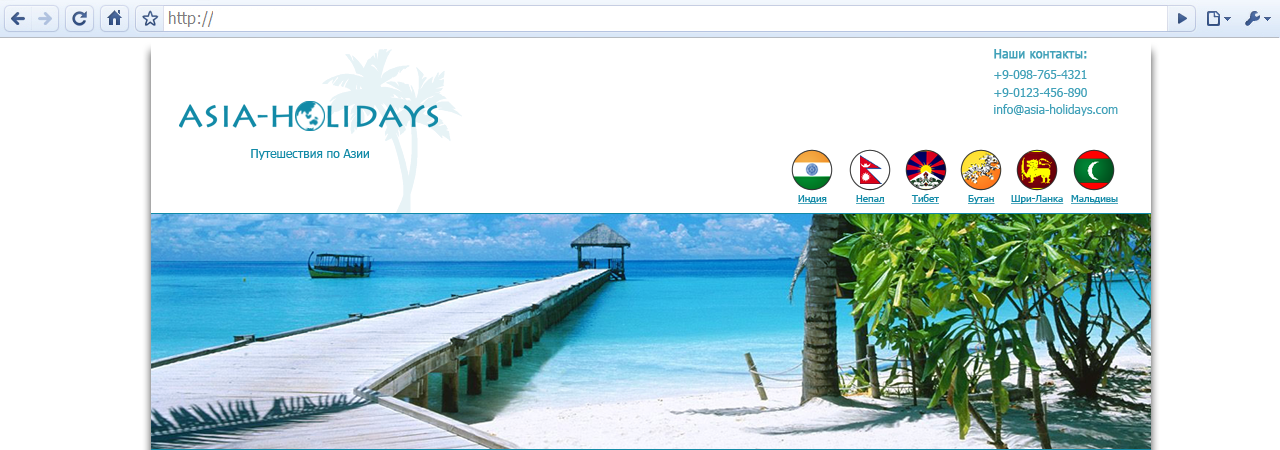
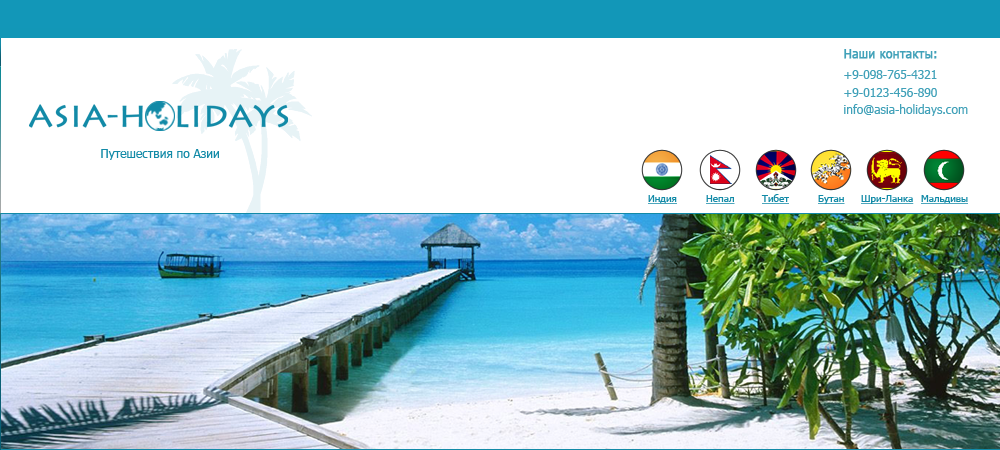
adit#2 hw#4

diff --git a/HW#4/index.html b/HW#4/index.html
@@ -18,7 +18,7 @@
 			<ul class="menu">
 				<li><a href=#>Главная</a>
 				</li>
-				<li><a href=#>Путешествия</a>
+				<li><a href=#>Путешествия&nbsp&#9662</a>
 					<ul class="submenu">
 						<li><a href=#>Путешествие 1</a></li>
 						<li><a href=#>Путешествие 2</a></li>
@@ -27,14 +27,14 @@
 						<li><a href=#>Путешествие 5</a></li>
 					</ul>
 				</li>
-				<li><a href=#>Услуги</a>
+				<li><a href=#>Услуги&nbsp&#9662</a>
 					<ul class="submenu">
 						<li><a href=#>Услуги 1</a></li>
 						<li><a href=#>Услуги 2</a></li>
 						<li><a href=#>Услуги 3</a></li>
 					</ul>
 				</li>
-				<li><a href=#>Партнерам</a>
+				<li><a href=#>Партнерам&nbsp&#9662</a>
 					<ul class="submenu">
 						<li><a href=#>Партнерам 1</a></li>
 						<li><a href=#>Партнерам 2</a></li>
@@ -52,28 +52,25 @@
 		<div class="main-block" >
 			<div class="fon"> <!-- блок-родитель с фоновой картинкой -->
 				<div class="leftColumn">
+				<div class="heading">Информация</div>
+				<p>"Lorem ipsum dolor sit amet, consectetur adipiscing elit, sed do
+				eiusmod tempor incididunt ut labore et dolore magna aliqua. Ut enim 
+				ad minim veniam, quis nostrud exercitation ullamco laboris nisi ut 
+				aliquip"</p>
+				</div>
+				<div class="centerColumn">
+				...Текст...
+				</div>
+				<div class="rightColumn">
+				<div class="heading">Новости</div>
 				<p>"Lorem ipsum dolor sit amet, consectetur adipiscing elit, sed do
 				eiusmod tempor incididunt ut labore et dolore magna aliqua. Ut enim 
 				ad minim veniam, quis nostrud exercitation ullamco laboris nisi ut 
 				aliquip ex ea commodo consequat. Duis aute irure dolor in reprehenderit 
 				in voluptate velit esse cillum dolore eu fugiat nulla pariatur. Excepteur 
 				sint occaecat cupidatat non proident, sunt in culpa qui officia deserunt
-				mollit anim id est laborum."</p>
-				</div>
-				<div class="centerColumn">
-				...Текст...
-				</div>
-				<div class="rightColumn">
-				<p>"Lorem ipsum dolor sit amet, consectetur adipiscing elit, sed do
-				eiusmod tempor incididunt ut labore et dolore magna aliqua. Ut enim 
-				ad minim veniam,  quis nostrud exercitation ullamco laboris nisi ut 
-				aliquip ex ea commodo consequat. Duis aute irure dolor in reprehenderit 
-				in voluptate velit esse cillum dolore eu fugiat nulla pariatur. Excepteur 
-				sint occaecat cupidatat non proident, sunt in culpa qui officia deserunt
 				mollit anim id est laborum.Duis aute irure dolor in reprehenderit 
-				in voluptate velit esse cillum dolore eu fugiat nulla pariatur. Excepteur 
-				sint occaecat cupidatat non proident, sunt in culpa qui officia deserunt
-				mollit anim id est laborum."</p>
+				in voluptate velit esse cillum dolore eu fugiat nulla pariatur."</p>
 				</div>
 			</div>
 			

diff --git a/HW#4/CSS/style.css b/HW#4/CSS/style.css
@@ -5,7 +5,6 @@ body {
 }
 
 .container {
-	margin-left: 150px;
 	width: 1000px;
 	margin: 0 auto;
     -webkit-box-shadow: 0px 3px 9px 4px rgba(0,0,0,0.75);
@@ -14,8 +13,11 @@ body {
 }
 
 header {
-	width: 1304px;
+	width: 1000px;
 	margin: 0 auto;
+	    -webkit-box-shadow: 0px 3px 9px 4px rgba(0,0,0,0.75);
+	-moz-box-shadow: 0px 3px 9px 4px rgba(0,0,0,0.75);
+	box-shadow: 0px 3px 9px 4px rgba(0,0,0,0.75);
 }
 
 /*Выпадающее меню*/
@@ -39,7 +41,7 @@ ul.menu > li {
 ul.menu > li > a {
     display: block;
     padding: 10px;
-	width: 122.7px;
+	width: 122.85px;
     color: white;
     background-color: #333333;
     text-decoration: none;
@@ -52,10 +54,10 @@ ul.submenu > li > a:hover{
 ul.submenu {
     display: none;
     position: absolute;
-	z-index: 100;
     top: 30px;
     left: 0;
     background-color: white;
+	box-shadow: 2px 5px 5px;
 }
 ul.submenu > li {
     display: block;
@@ -75,8 +77,9 @@ ul.menu > li:hover > ul.submenu {
 
 /*Три колонки*/
 .fon {
-	width: 1000px; /* ширина трех блоков */
-	background: url(../IMG/bgfon.png) repeat-y; /* фоновая картинка. повторяется по вертикали */
+	width: 1000px;
+	min-height: 450px;
+	background: url(../IMG/bgfon.png) repeat-y;
 	float: left;
 	line-height: normal;
 }
@@ -91,6 +94,12 @@ ul.menu > li:hover > ul.submenu {
 .centerColumn {
 	width: 580px;
 	float: left;
+}
+
+.heading {
+	text-align: center;
+	padding-bottom: 5px;
+	font: 20px Arial;
 }
 
 footer {
